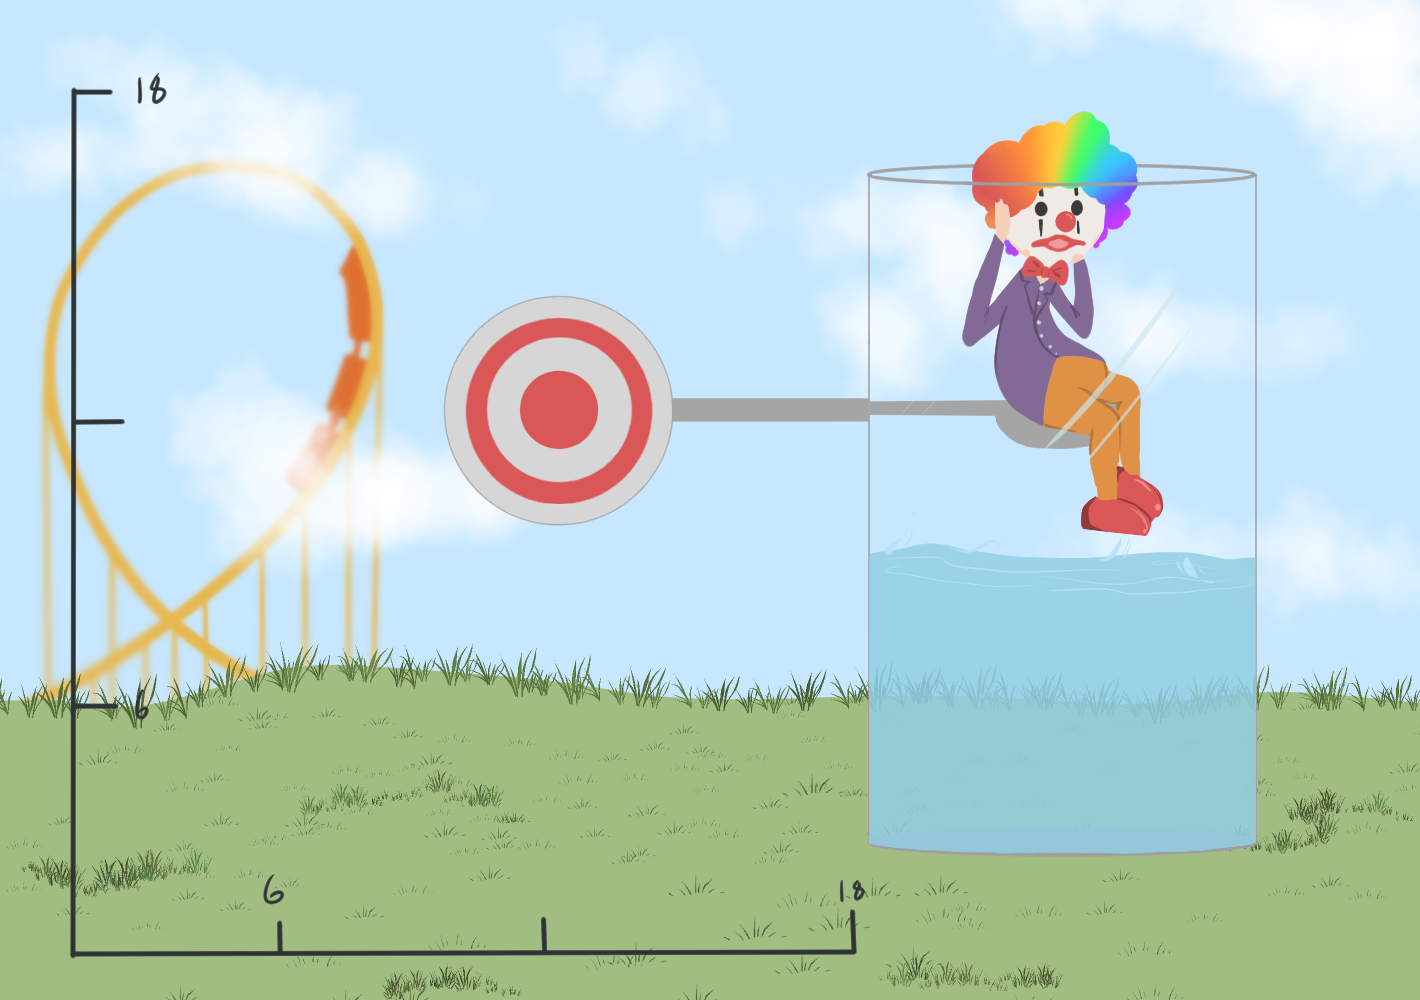
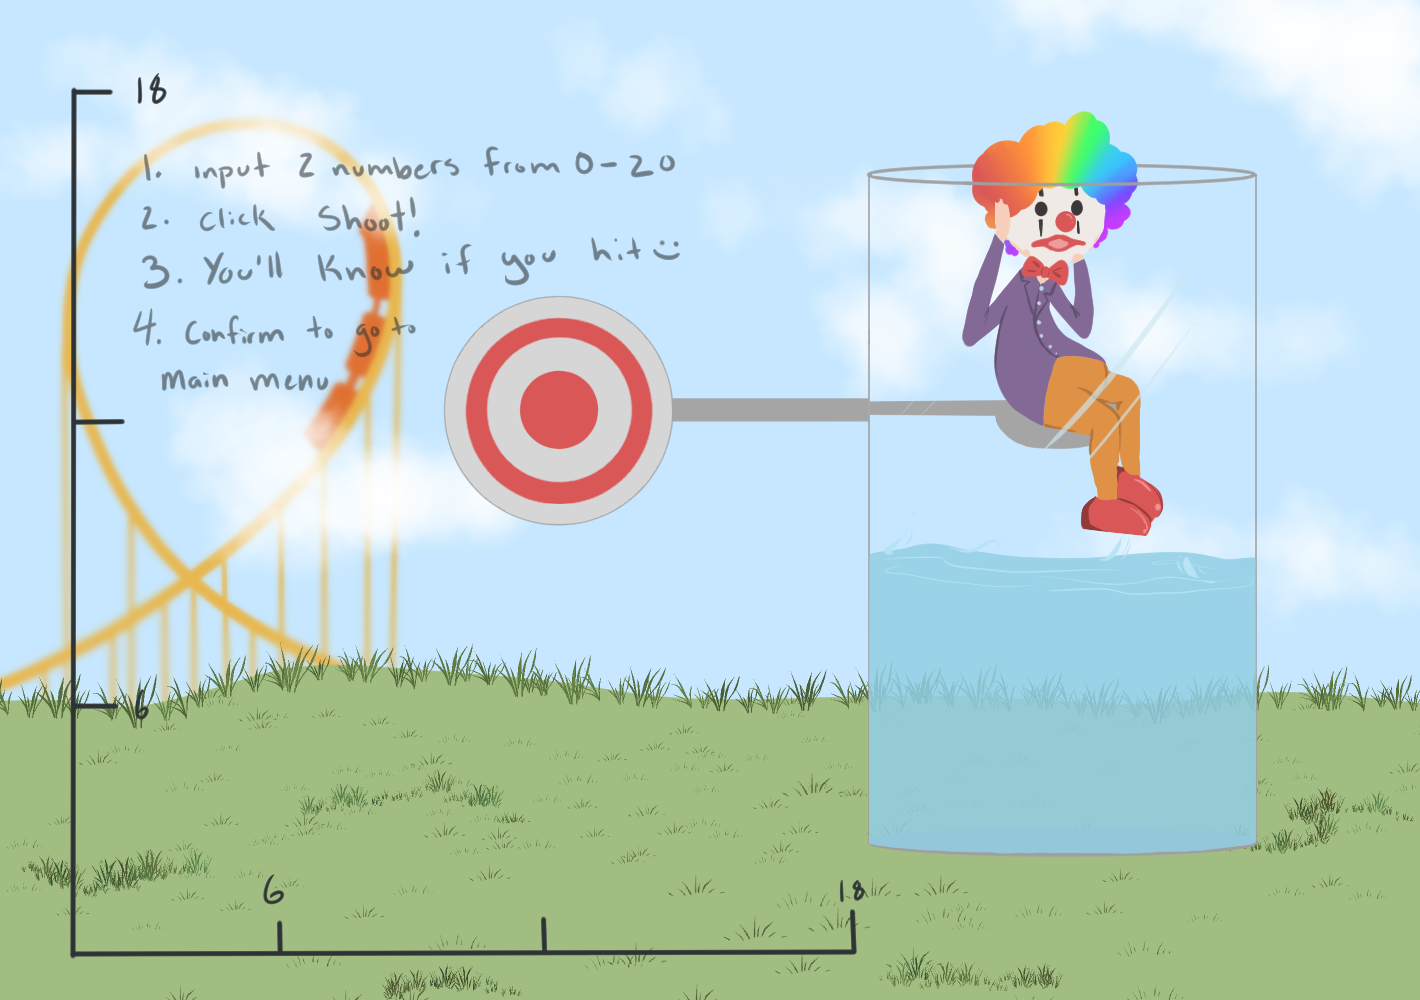
updated pngs
changed images

Changed region(s): [[0.0, 0.093, 0.4648, 0.713], [0.3408, 0.155, 0.4958, 0.186]]

diff --git a/ThemePark/src/Screen.java b/ThemePark/src/Screen.java
@@ -109,15 +109,15 @@ public class Screen implements KeyListener {
         }
         
         //Check if player is in correct zone, adds correspondent tab
-        if(player.getX()<=player.getScaledX() && player.getY()>=screenY-player.getScaledY()*2 && targetGame ==0){
+        if(player.getX()<=player.getScaledX() && player.getY()>=screenY-player.getScaledY()*2 && targetGame <=1){
              addTab("Target Game",targetPanel);
-             menu.setSelectedIndex(1);
+             menu.setSelectedIndex(targetGame+1);
              targetGame++;
         }
-        if(player.getX()>=screenX-player.getScaledX()*2 && player.getY()>=screenY-player.getScaledY()*2 && targetGame2==0){
+        else if(player.getX()>=screenX-player.getScaledX()*2 && player.getY()>=screenY-player.getScaledY()*2 && targetGame<=1){
             addTab("FROGGO",frogPanel);
-            menu.setSelectedIndex(2);
-            targetGame2++;
+            menu.setSelectedIndex(targetGame+1);
+            targetGame++;
         }
         
 
